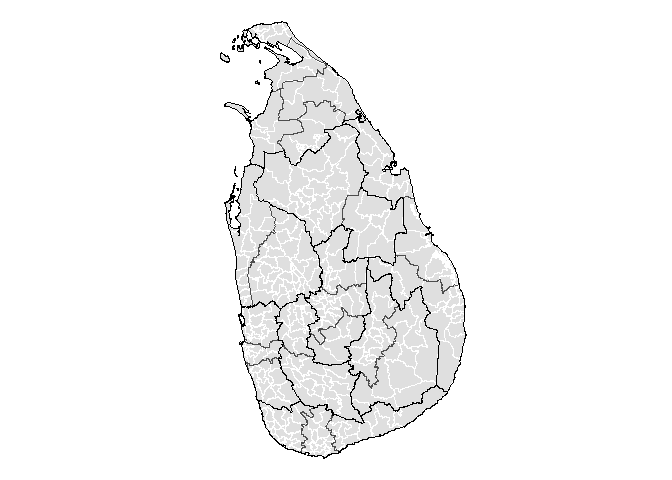
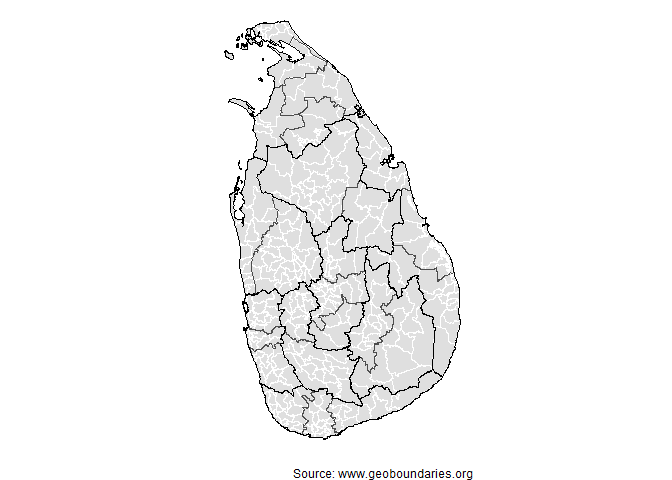
Add wrappers

Changed region(s): [[0.3125, 0.0312, 0.7188, 1.0]]

diff --git a/README.md b/README.md
@@ -23,14 +23,18 @@ dataset (an open-license global database of administrative boundary
 polygons). Using this package, you can:
 
 - Programmatically retrieve administrative boundary geometries (e.g.,
-  country → region → district) from geoBoundaries  
+  country → region → district) from geoBoundaries
 - Use tidyverse / **sf** workflows in **R** to map, analyse and join
-  these boundaries with your own data  
+  these boundaries with your own data
 - Work in an open-data context (geoBoundaries uses CC BY-4.0 / open
   licences)
 
 In short: if you work with geospatial boundaries in **R** (shape files,
 polygons, join with other data), this package simplifies the process.
+
+**Note that
+[Attribution](https://www.geoboundaries.org/index.html#usage) is
+required when using geoBoundaries.**
 
 ## Installation
 
@@ -81,6 +85,7 @@ ggplot(sri_lanka_adm3) +
   geom_sf(fill = "#DFDFDF", color = "white") +
   geom_sf(data = sri_lanka_adm2, fill = NA, color = "grey30") +
   geom_sf(data = sri_lanka_adm1, fill = NA, color = "black") +
+  labs(caption = "Source: www.geoboundaries.org") +
   theme_void()
 ```
 
